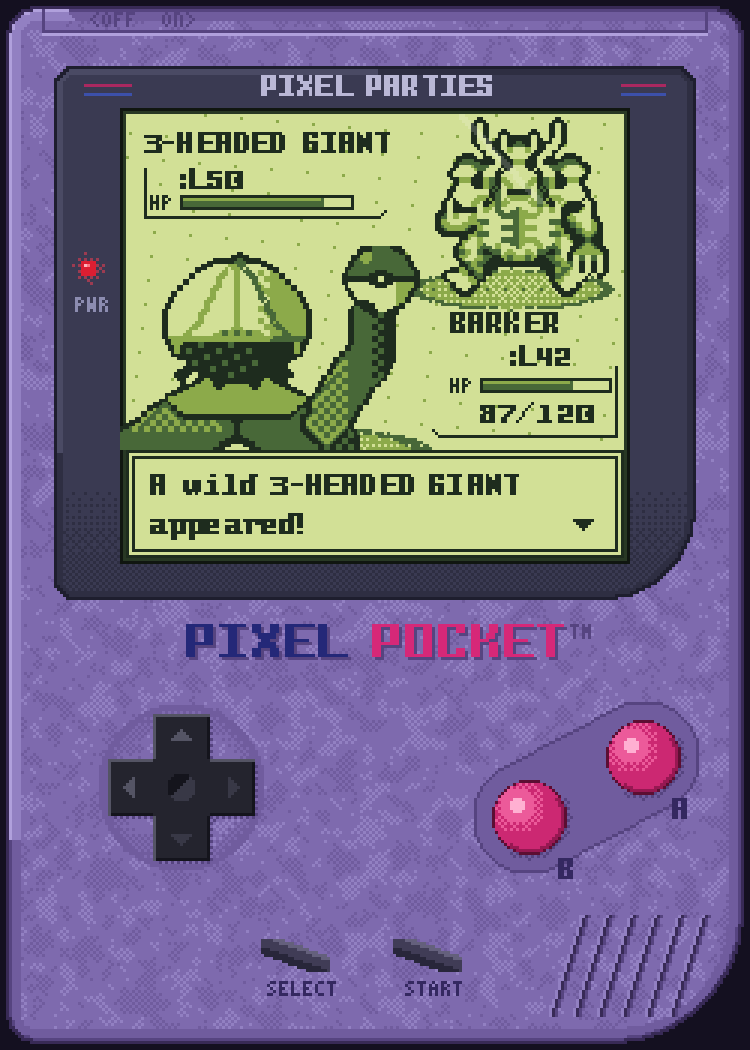
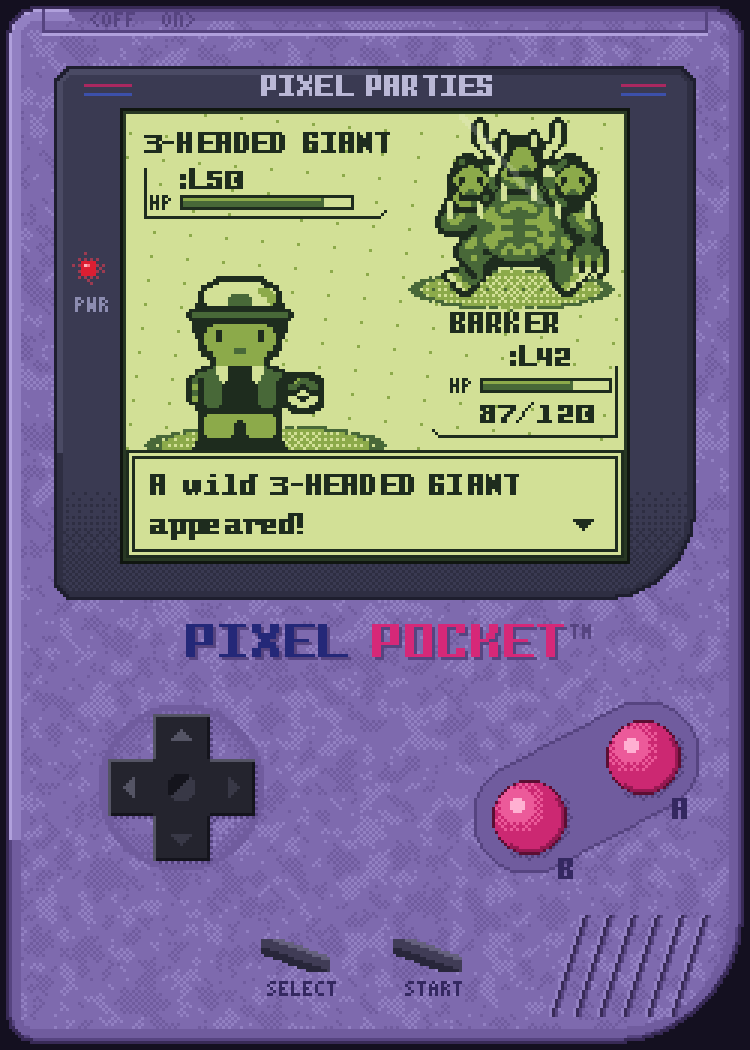
Pixel Pocket: Barker front sprite, readable giant heads; Wanted: no stamp, bigger portrait
Claude-Session: https://claude.ai/code/session_01VrcjmiCcwnRFzcWeEK63jM

Changed region(s): [[0.1533, 0.2133, 0.5827, 0.4267], [0.5827, 0.1219, 0.7973, 0.2743]]

diff --git a/data/sleeve-proposals/generator/v2_01_pocket.py b/data/sleeve-proposals/generator/v2_01_pocket.py
@@ -1,6 +1,7 @@
 from px2 import *
 from font35 import text35, width35
 import art_barker_back as BB
+import art_barker_front as BF
 random.seed(1)
 W,H=W2,H2
 cv=C2((20,16,32))
@@ -100,13 +101,42 @@ def gbq_plain(rgba,cuts=(0.22,0.5,0.8)):
     a=rgba.copy(); L=lum(a[...,:3].astype(float)); op=a[...,3]>0
     q=np.quantile(L[op],cuts); lev=np.digitize(L,q)
     a[...,:3]=np.array(GB)[lev]; return a
-g4=scale2x(outline(gbq_plain(quant_colors(gi,10)),GB[0]))
+def gbq_classes(rgba):
+    # map by colour class so the outer heads' red eyes / white horns stay readable
+    a=rgba.copy(); op=a[...,3]>0
+    rgb=a[...,:3].astype(int); r,g,b=rgb[...,0],rgb[...,1],rgb[...,2]
+    L=lum(rgb.astype(float)); sat=rgb.max(-1)-rgb.min(-1)
+    skin=op&(sat<=90)&(L>=70)&(L<=175)
+    med=np.median(L[skin]) if skin.any() else 110
+    lev=np.full(L.shape,1)
+    lev[skin&(L>=med)]=2
+    lev[op&(L<60)]=0
+    lev[op&(L>175)&(sat<60)]=3          # horns / claws / tusks
+    lev[op&(r>g+45)&(r>b+30)]=0         # red eyes -> darkest
+    a[...,:3]=np.array(GB)[lev]
+    # eyes: add a light glint so they read as eyes, not holes
+    return a
+gq=gbq_classes(gi)
+# retouch the three heads so each reads clearly: outlined face, light skin, dark eyes, small mouth
+def head(cx,cy,rx,ry):
+    for y in range(int(cy-ry)-1,int(cy+ry)+2):
+        for x in range(int(cx-rx)-1,int(cx+rx)+2):
+            if not(0<=y<gq.shape[0] and 0<=x<gq.shape[1]): continue
+            d=((x-cx)/rx)**2+((y-cy)/ry)**2
+            if d<=1.0:
+                lv=2 if y>cy-ry+1 else 3
+                if d>0.62: lv=0
+                gq[y,x,:3]=GB[lv]; gq[y,x,3]=255
+    for ex in (int(round(cx-1.5)),int(round(cx+1.5))):
+        gq[int(cy),ex,:3]=GB[0]
+    gq[int(cy)+2,int(cx),:3]=GB[1]; gq[int(cy)+2,int(cx)+ (1 if rx>3 else 0),:3]=GB[1]
+head(9.5,9.2,3.3,3.3); head(26.5,9.2,3.3,3.3); head(18,5.6,3.4,3.0)
+g4=scale2x(outline(gq,GB[0]))
 cv.paste(g4,170-g4.shape[1]//2,98-g4.shape[0]+1)
 # player platform
-gellipse(88,150,56,9,2,1)
-bb=scale2x(BB.to_rgba(BB.build(),GB))
-bb=bb[:150-82]
-cv.paste(bb,40,82)
+gellipse(88,148,40,7,2,1)
+bb=scale2x(BF.to_rgba(BF.build(),GB))
+cv.paste(bb,62,150-bb.shape[0])
 # ---------- HUDs ----------
 def hpbar(x,y,w,frac):
     for i in range(w):

diff --git a/data/sleeve-proposals/generator/v2_02_wanted.py b/data/sleeve-proposals/generator/v2_02_wanted.py
@@ -178,12 +178,11 @@ for y,r in enumerate(art):
     for x,c in enumerate(r):
         if c in cmap: lv[y,x]=cmap[c]
 # scale2x on level map
-rgba=np.zeros((hh,ww,4),np.uint8); rgba[...,0]=np.where(lv>=0,lv*40,0); rgba[...,3]=np.where(lv>=0,255,0)
-big=scale2x(rgba); L2=np.where(big[...,3]>0,big[...,0].astype(int)//40,-1)
+L2=scale3x_labels(lv)
 # add form shading from distance field
 m=L2>=0
 dist=cv2.distanceTransform(np.pad(m.astype(np.uint8),1),cv2.DIST_L2,3)[1:-1,1:-1]
-bx=125-L2.shape[1]//2; by=FY1-L2.shape[0]+2
+bx=125-L2.shape[1]//2; by=FY0+3
 for y in range(L2.shape[0]):
     for x in range(L2.shape[1]):
         v=L2[y,x]
@@ -209,7 +208,7 @@ for y in range(L2.shape[0]):
 # beard highlight strands (wavy)
 for y in range(L2.shape[0]):
     for x in range(L2.shape[1]):
-        if L2[y,x]==0 and 38<y<80 and ((x+int(2.5*math.sin(y*0.35+x*0.1)))%6==0):
+        if L2[y,x]==0 and 57<y<120 and ((x+int(3.5*math.sin(y*0.25+x*0.07)))%8==0):
             X,Y=bx+x,by+y
             if FY0<=Y<FY1: cv.px(X,Y,DK)
 # ---------- name + reward ----------
@@ -225,19 +224,6 @@ ink_text('999.999',22,x0+w//2,292,INK,shadow=MD)
 cv.paste(coin,x0+w+GAP,292+h//2-coin.shape[0]//2)   # coin vertically centred on the digits
 star(52,306); star(198,306)
 ink_text('PAYABLE IN SMUG COINS',9,125,316,DK)
-# ---------- red stamp ----------
-RS=(170,36,36); RSL=(200,70,60)
-sx0,sy0=62,194
-for y in range(sy0,sy0+24):
-    for x in range(sx0,sx0+50):
-        e=min(x-sx0,sx0+49-x,y-sy0,sy0+23-y)
-        if (e in (0,2)) and st2[y,x]<0.75: cv.px(x,y,RS)
-m=text_mask('PIXEL',9); ys,xs=np.where(m)
-for yy,xx in zip(ys,xs):
-    if st2[sy0+4+yy,sx0+8+xx]<0.8: cv.px(sx0+8+xx,sy0+4+yy,RS)
-m=text_mask('NAVY',9); ys,xs=np.where(m)
-for yy,xx in zip(ys,xs):
-    if st2[sy0+13+yy,sx0+12+xx]<0.8: cv.px(sx0+12+xx,sy0+13+yy,RSL)
 # ---------- bullet holes ----------
 def hole(cx,cy):
     for dy in range(-5,6):

diff --git a/data/sleeve-proposals/generator/art_barker_front.py b/data/sleeve-proposals/generator/art_barker_front.py
@@ -1,0 +1,64 @@
+# Barker (Monster Trainer) front sprite, 4-shade handheld style, based on the in-game sprite
+import numpy as np, math
+LEFT=[
+".....0000",
+"...003333",
+"..0333333",
+"..0333311",
+"..0333311",
+".00000000",
+"011111111",
+".00000000",
+".00022222",
+".00220222",
+"..0220222",
+"..0222222",
+"..0022222",
+"...002222",
+"....02222",
+"..0013300",
+".01113300",
+"010111300",
+"010111000",
+"010111000",
+"020111000",
+".00111000",
+"..0000000",
+"..0222222",
+"..0222220",
+"..0222220",
+"..0222220",
+"..0000000",
+".00000000",
+]
+def build():
+    rows=[r+r[::-1] for r in LEFT]
+    g=np.array([[int(c) if c!='.' else -1 for c in r] for r in rows])
+    h,w=g.shape
+    g=np.pad(g,((0,0),(0,5)),constant_values=-1)
+    # mouth + cap highlight + jacket highlight
+    g[12,8]=1; g[12,9]=1
+    for (x,y) in [(4,2),(5,2),(4,3)]: g[y,x]=3
+    for (x,y) in [(12,2),(13,2),(13,3),(14,3),(14,4)]: g[y,x]=2
+    for y in range(17,21):
+        if y%2==0: g[y,1]=2
+    for (x,y) in [(3,1),(6,1)]: g[y,x]=2 if False else g[y,x]
+    # ball in the (viewer's) right hand
+    cx,cy,r=19,19,3.2
+    for y in range(h):
+        for x in range(g.shape[1]):
+            d=math.hypot(x-cx,y-cy)
+            if d<=r+0.6:
+                v=1 if y<cy else 3
+                if y==cy: v=0
+                if d>r-0.4: v=0
+                g[y,x]=v
+    g[cy,cx]=3; g[cy-1,cx]=0; g[cy+1,cx]=0; g[cy,cx-1]=0; g[cy,cx+1]=0
+    g[cy-2,cx-1]=2
+    return g
+def to_rgba(g,pal):
+    h,w=g.shape; a=np.zeros((h,w,4),np.uint8)
+    for y in range(h):
+        for x in range(w):
+            if g[y,x]>=0: a[y,x,:3]=pal[g[y,x]]; a[y,x,3]=255
+    return a
